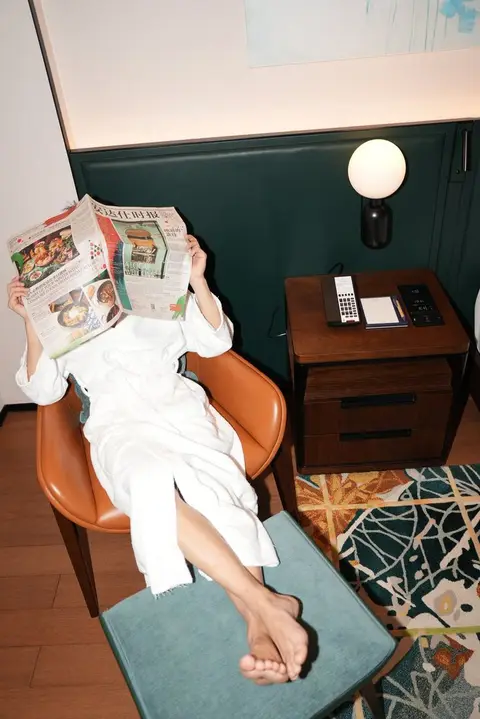
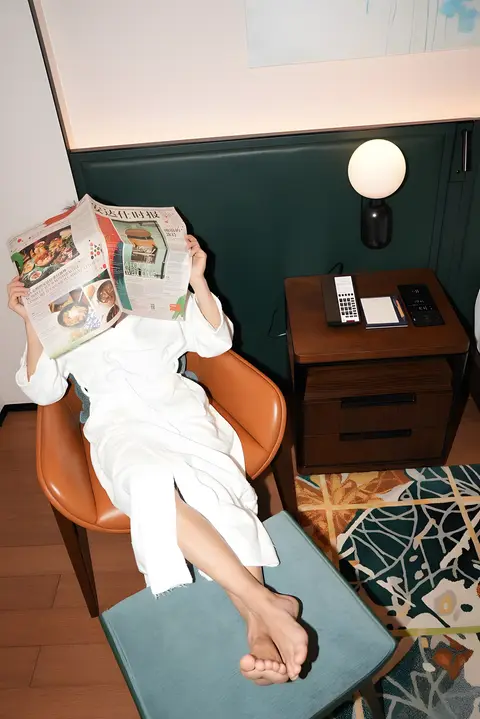
fix(mobile): primeira rolagem sem travar; fotos em alta (provisório)
- useDesignScale ignora resize só de altura abaixo de 1024 (barra de
  endereço recolhendo re-renderizava o App na primeira rolagem: 50-70ms)
- MobileStage escreve tamanho e clip-path só quando mudam; 6 fotos eager;
  entrada 1,6s -> 1,1s sem atraso
- 7 fotos de 404-736px ampliadas 4x (Real-ESRGAN) até os originais do
  cliente; img.mjs gera 1440/1920 e avisa original < 1200px
- ENTREGA-0610.md com medições

diff --git a/src/components/MobileStage.tsx b/src/components/MobileStage.tsx
@@ -105,11 +105,17 @@ export function MobileStage({ ready }: { ready: boolean }) {
           scale = lerp(ringS, ringS * 0.6, close)
           opacity *= 1 - close
         }
-        el.style.width = `${baseW}px`
-        el.style.height = `${baseW * PORTRAIT}px`
+        // tamanho e recorte so quando mudam: escrever a cada quadro forcava
+        // layout e repintura dos 6 cards na primeira rolagem (05/10)
+        const w = `${baseW}px`
+        if (el.style.width !== w) {
+          el.style.width = w
+          el.style.height = `${baseW * PORTRAIT}px`
+        }
         el.style.opacity = String(opacity)
         el.style.transform = `translate3d(${x}px, ${y}px, 0) rotate(${rot}deg) scale(${scale})`
-        el.style.clipPath = polygon(shape)
+        const clip = shape > 0 ? polygon(shape) : 'none'
+        if (el.style.clipPath !== clip) el.style.clipPath = clip
         // raio de 4 do Figma, compensado pela escala; some quando vira moldura
         el.style.borderRadius = `${(4 * (1 - shape)) / Math.max(scale, 0.01)}px`
         el.style.zIndex = trio ? '3' : '1'
@@ -139,7 +145,7 @@ export function MobileStage({ ready }: { ready: boolean }) {
       s.draw()
       return
     }
-    const tween = gsap.to(s, { intro: 1, duration: DUR.intro, ease: 'expo.out', delay: 0.15, onUpdate: () => s.draw() })
+    const tween = gsap.to(s, { intro: 1, duration: DUR.intro, ease: 'expo.out', onUpdate: () => s.draw() })
     return () => { tween.kill() }
   }, [ready])
 
@@ -156,7 +162,9 @@ export function MobileStage({ ready }: { ready: boolean }) {
               <img
                 {...imgProps(card.photo.src, '40vw', 1 / PORTRAIT)}
                 alt=""
-                loading={TRIO[j] ? 'eager' : 'lazy'}
+                // todas no primeiro quadro: lazy decodificava 3 fotos justo na primeira rolagem
+                loading="eager"
+                fetchPriority={TRIO[j] ? 'high' : 'auto'}
                 decoding="async"
                 style={{ objectPosition: card.photo.fit }}
               />

diff --git a/src/hooks/useDesignScale.ts b/src/hooks/useDesignScale.ts
@@ -77,7 +77,17 @@ export function useDesignScale(): DesignScale {
   )
 
   useEffect(() => {
-    const apply = () => setScale(applyDesignScale())
+    // No celular a primeira rolagem recolhe a barra de endereco: `resize` so
+    // de altura. Re-renderizar o App e regravar o `:root` ali travava a
+    // primeira rolagem (05/10). Abaixo de 1024 nada depende da altura (`--kb`
+    // e do desktop; o palco usa svh), entao so a largura conta.
+    let lastW = -1
+    const apply = () => {
+      const w = document.documentElement.clientWidth
+      if (w === lastW && w < 1024) return
+      lastW = w
+      setScale(applyDesignScale())
+    }
 
     apply()
     window.addEventListener('resize', apply)

diff --git a/src/lib/motion.ts b/src/lib/motion.ts
@@ -32,7 +32,7 @@ export const DUR = {
   /** foto que abre da moldura para o retangulo */
   reveal: 1.1,
   /** o anel de fotos nascendo na abertura mobile */
-  intro: 1.6,
+  intro: 1.1,
   /** algo que segue o ponteiro e assenta (marca do rodape) */
   follow: 0.6,
   /** troca de tema: a persiana abrindo o dia ou a noite sobre a pagina */

diff --git a/src/site.css b/src/site.css
@@ -356,7 +356,7 @@
   translate: -50% -50%;   /* centra; o `transform` do draw vem depois */
   overflow: hidden;
   opacity: 0;
-  will-change: transform, opacity, clip-path;
+  will-change: transform, opacity;
   backface-visibility: hidden;
 }
 

diff --git a/ENTREGA-0610.md b/ENTREGA-0610.md
@@ -1,0 +1,47 @@
+# Urban Stay · entrega 06/10/2026
+
+Branch `upgrade/mobile-first`. Ordem = impacto no celular (90% dos acessos).
+
+## 1. Fotos em baixa: feito (provisório até os originais do cliente)
+
+- O Figma **não tem** versão maior: o preenchimento original das fotos é o mesmo arquivo do exporte (câmera e cartões 404 px, mala 501, cama 736, banho 580). Reexportar em 3x só esticaria.
+- Upscale de IA da Visant (`moodboard-upscale`) deu erro de servidor nas 8 tentativas (créditos ok).
+- Feito com **Real-ESRGAN** (`realesrgan-x4plus`, binário oficial ncnn-vulkan) em 4x, depois limitado a 2000 px no lado maior. Mesmo nome em `public/img`, versões regeneradas com `npm run img`.
+
+| foto | antes | agora |
+|---|---|---|
+| camera / cards | 404 × 257 | 1616 × 1028 |
+| suitcase | 501 × 752 | 1332 × 2000 |
+| bed | 736 × 920 | 1600 × 2000 |
+| memoir-bath | 580 × 870 | 1333 × 2000 |
+| memoir-terrace | 736 × 981 | 1501 × 2000 |
+| memoir-paper | 735 × 1101 | 1335 × 2000 |
+
+- `scripts/img.mjs`: versões `480/960/1440/1920` (celular 3x tem tamanho certo) e **aviso no console** quando um original tem menos de 1200 px no lado maior.
+- **Pendente (cliente):** originais em ≥ 1600 px no lado maior destas 7 fotos. Quando chegarem: mesmo nome em `public/img` → `npm run img`.
+
+## 2. Primeira rolagem lenta no celular: feito
+
+**Causa principal:** na primeira rolagem a barra de endereço recolhe e dispara `resize`. `useDesignScale` criava estado novo, re-renderizava o App inteiro e regravava o `:root` justamente nessa hora.
+
+| correção | arquivo |
+|---|---|
+| abaixo de 1024, `resize` só de altura é ignorado | `hooks/useDesignScale.ts` |
+| `width/height` e `clip-path` escritos só quando mudam (antes, a cada quadro) | `MobileStage.tsx` |
+| as 6 fotos do anel `eager` (3 eram `lazy` e decodificavam na primeira rolagem) | `MobileStage.tsx` |
+| `will-change` sem `clip-path` | `site.css` |
+| entrada do anel 1,6 s → 1,1 s, sem o atraso de 0,15 s | `lib/motion.ts`, `MobileStage.tsx` |
+
+**Medido** (Chromium headless, 390 × 844 @3x, toque, CPU 4x mais lenta, barra recolhendo no 5º quadro, 4 rodadas):
+
+| | tarefa longa | pior quadro |
+|---|---|---|
+| antes | 50–70 ms, em todas as rodadas | 50–70 ms |
+| depois | **nenhuma** | 20–30 ms |
+
+`npm run build` e `motion-lint` limpos.
+
+## 3. Em aberto
+
+- **Loader**: 3,1–3,6 s na CPU 4x. A persiana precisa de 1,6 s (`minDuration`); encurtar corta a animação de marca. Decisão do dono.
+- Passada visual em 768, 1024, 1440 e 1920 + deploy de preview.
